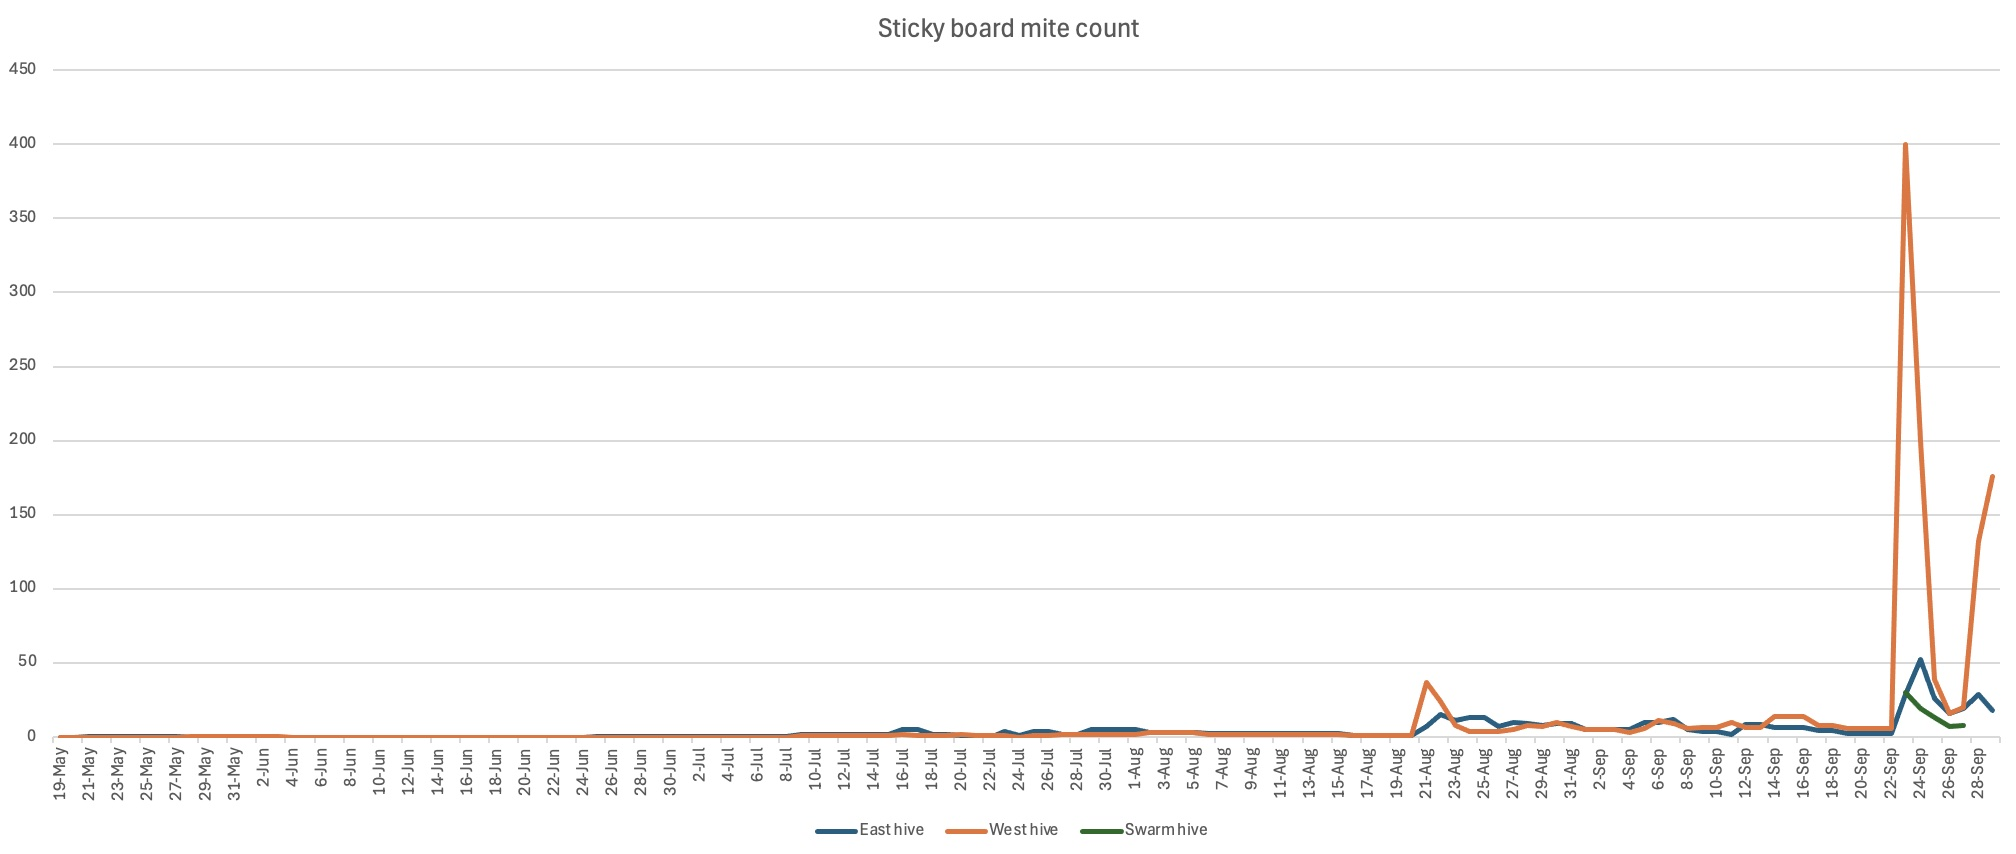
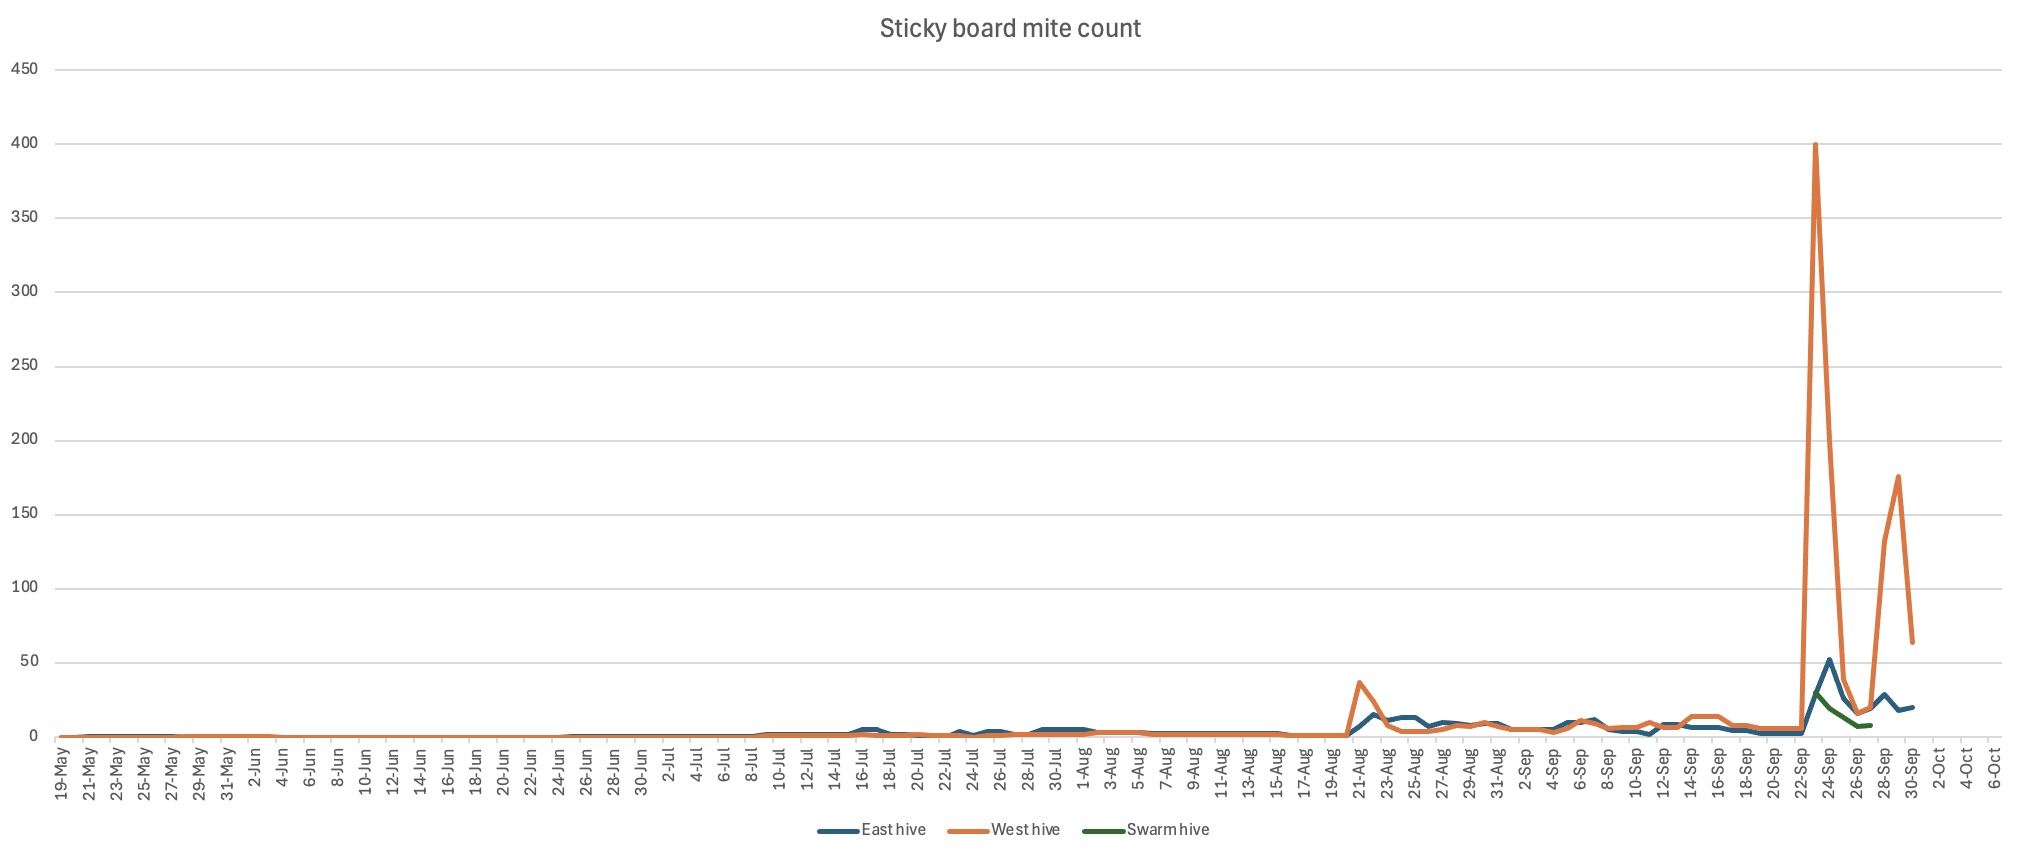
added updates

diff --git a/_posts/2024-09-30-hive-notes.md b/_posts/2024-09-30-hive-notes.md
@@ -1,0 +1,19 @@
+---
+title: "Hive Notes"
+date: 2024-09-30
+---
+
+- Time: ~08.15
+- Temp: ~47F, sunny
+
+### East hive
+
+- Bottom board had 20 mites
+- Wiped and re-oiled the bottom board.
+
+### West hive
+
+- Bottom board had 64 mites
+- Wiped and re-oiled the bottom board.
+- News paper fuzz on the bottom board, apparently they're combing
+
